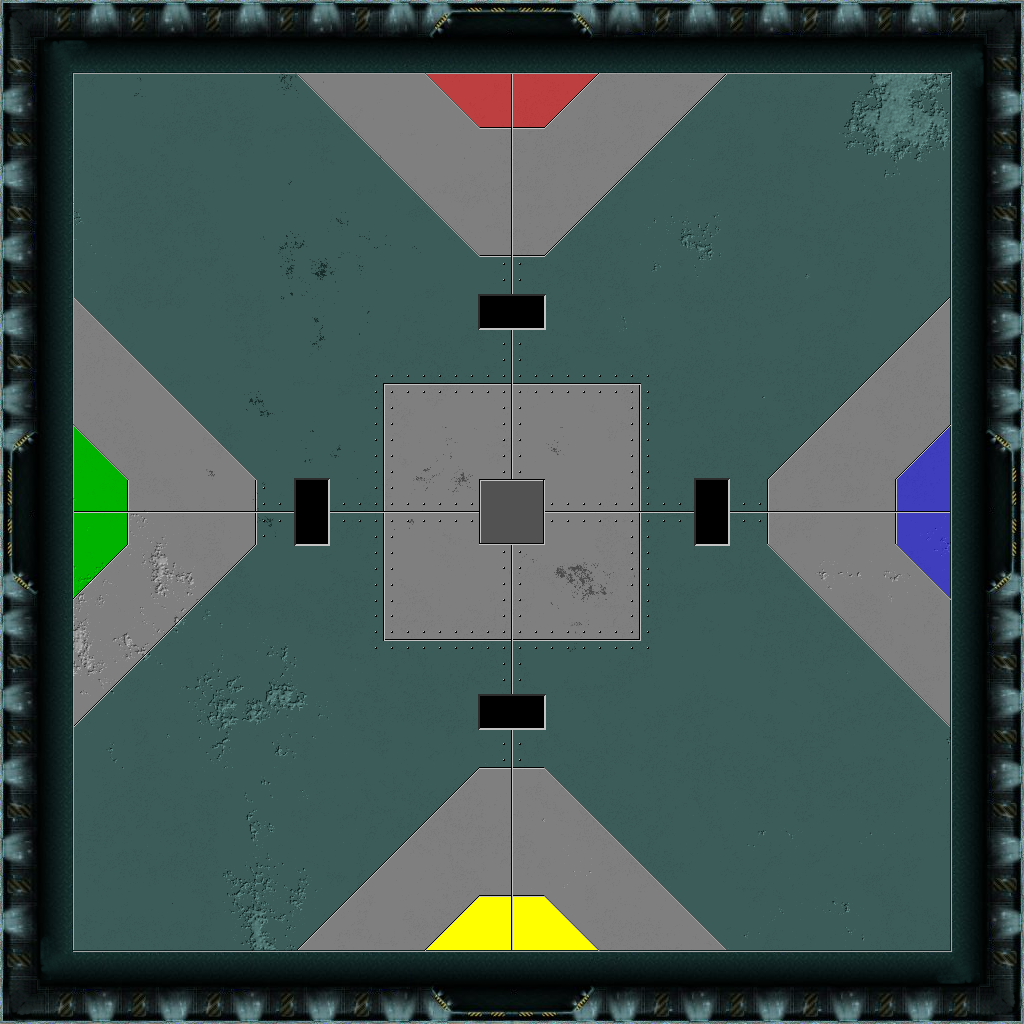
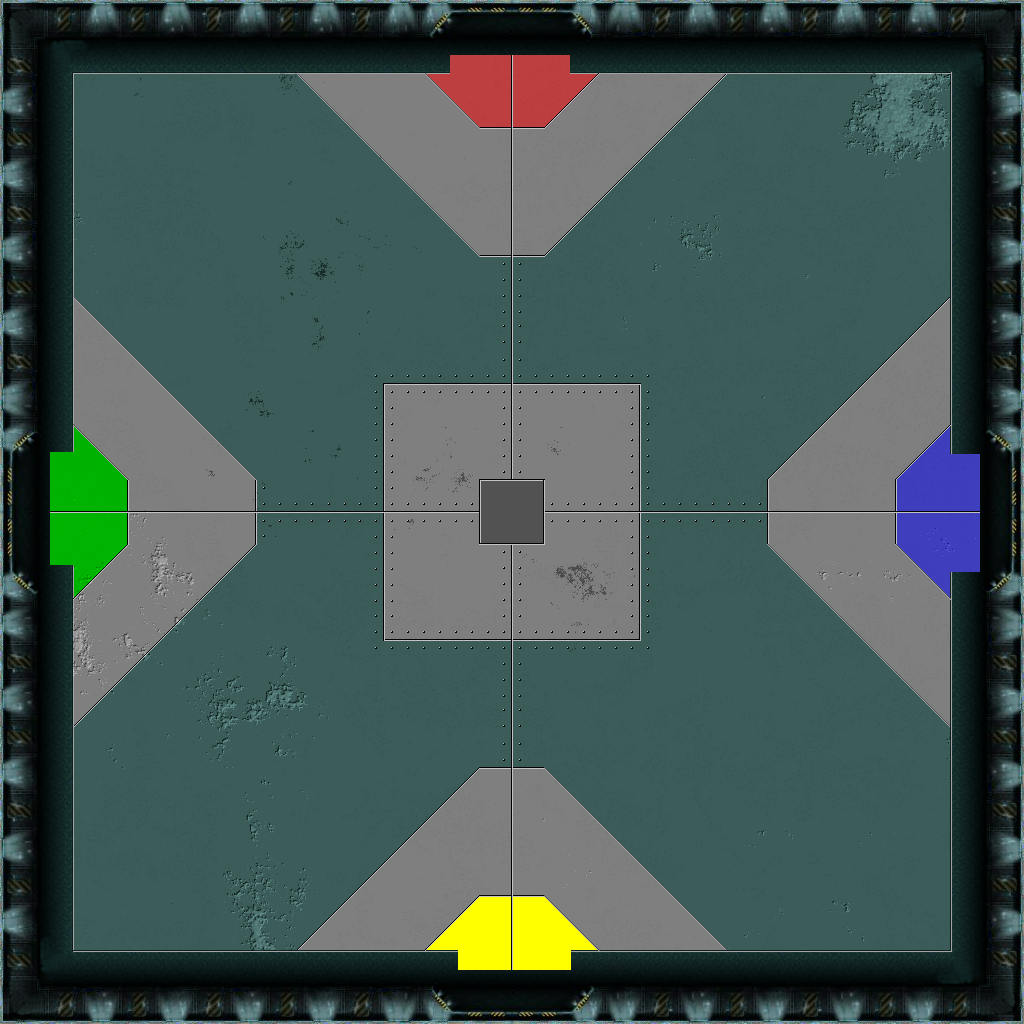
small changes on kickthemoff

diff --git a/src/games/kickthemoff/Kickthemoff.java b/src/games/kickthemoff/Kickthemoff.java
@@ -17,7 +17,7 @@ public class Kickthemoff extends MyGame {
 	public Kickthemoff(JPanel PANEL, KeyRequest KEYS) {
 		super(PANEL, KEYS);
 
-		Ground g = new Ground(512, 512, 450);
+		Ground g = new Ground(512, 512, 425);
 
 		add(new Background());
 		add(g);
